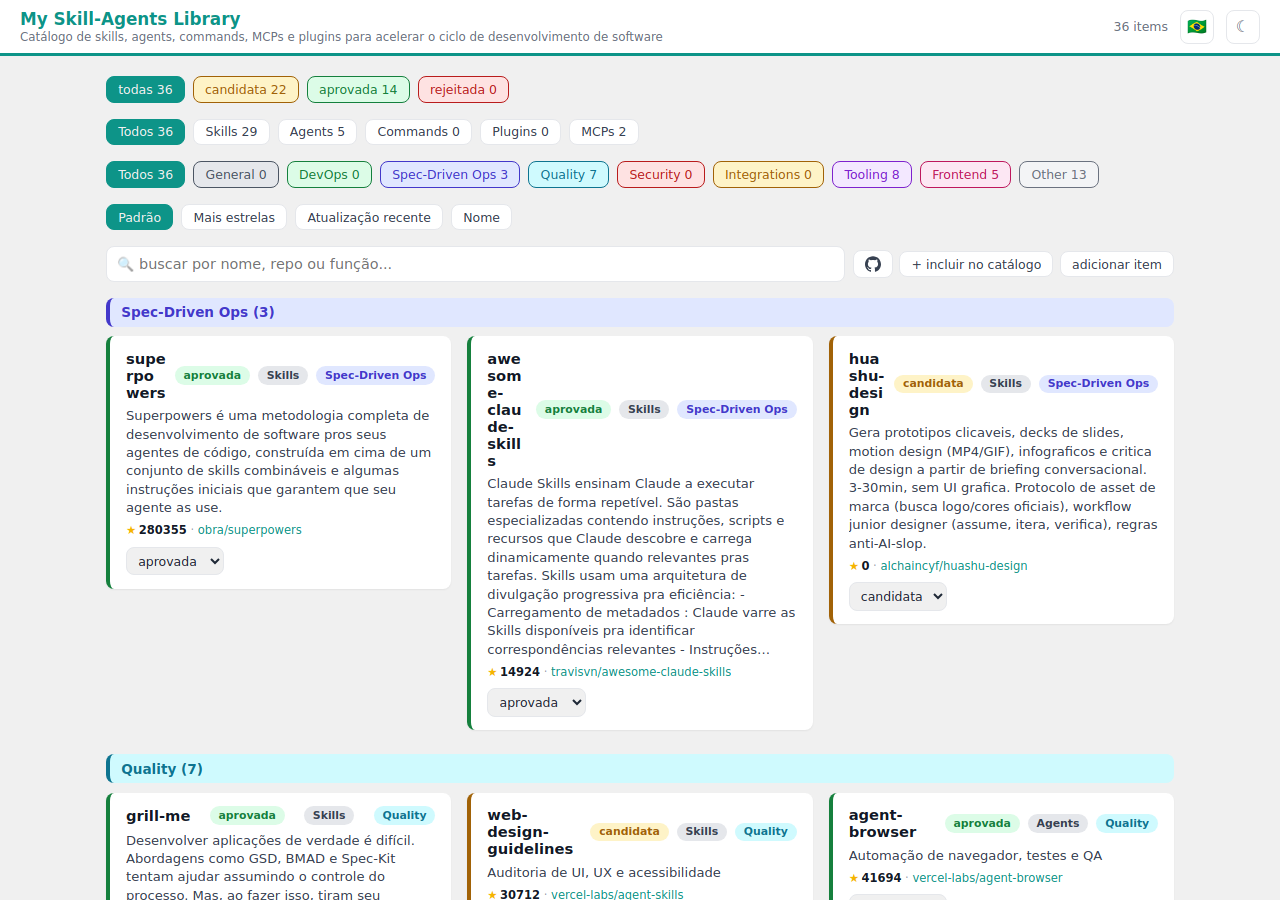
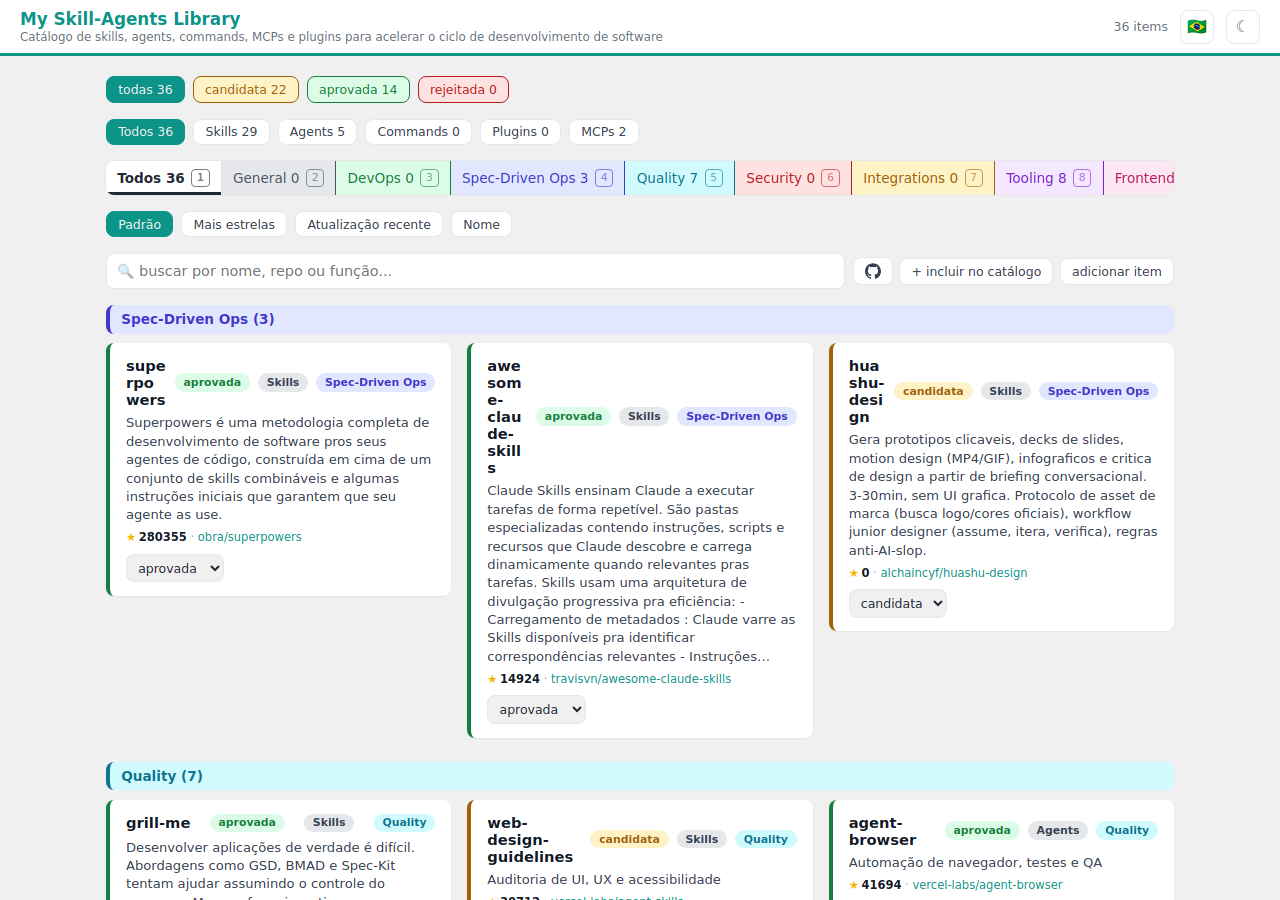
docs: update README and CODEBASE_MAP for purpose tab bar + add-item modal
- refresh screenshots (purpose tab bar, digit shortcuts, add-item
  button, search box below filters)
- README: new "purpose filter is a tab bar" section, updated screenshot
  caption/alt text
- CODEBASE_MAP: document renderPurposeFilter's tab-bar rewrite,
  PURPOSE_TAB_KEYS/purposeTabTarget, the digit-shortcut keydown handler,
  and the add-item form's move into a modal (renderAddModal/
  openAddModal/closeAddModal)

Claude-Session: https://claude.ai/code/session_015HJhdv2NVHp8ftTBC2Pkqs

diff --git a/docs/CODEBASE_MAP.md b/docs/CODEBASE_MAP.md
@@ -152,11 +152,13 @@ tests/
 **Dependents**: `regenerate.sh`, the CLI entry point, `test_generator.py`.
 
 **Frontend structure (inside `render_app_js()`)**:
-- State: `items`, `filterStatus`, `filterKind`, `filterPurpose`, `sortBy`, `openModalId`, plus search state `searchQuery`, `ghResults`, `ghLoading`, `ghError`, `ghAddedRepos`, plus i18n state `lang` — plain globals, re-rendered wholesale on every mutation via `render()`.
+- State: `items`, `filterStatus`, `filterKind`, `filterPurpose`, `sortBy`, `openModalId`, `addModalOpen`/`addModalPrefillName` (add-item modal), plus search state `searchQuery`, `ghResults`, `ghLoading`, `ghError`, `ghAddedRepos`, plus i18n state `lang` — plain globals, re-rendered wholesale on every mutation via `render()`.
 - **i18n** (pt default / en / es): `LANGS`, `LANG_FLAG` (toggle-button emoji per lang), and `STRINGS[lang]` (per-lang dict of UI-chrome strings — plain keys, function keys like `itemsCount(n)`/`ghResultsFound(n)`/`confirmDelete(name)`/`errGeneric(status)`, and nested `status`/`kind`/`purpose`/`sort` label maps). `currentLang()` reads `localStorage["lang"]` (default `"pt"`), `setLang()` writes it. `t(key)` and the `statusLabel()`/`kindLabel()`/`purposeLabel()`/`sortLabel()` helpers resolve from `STRINGS[lang]`, falling back to `STRINGS.pt` if the lang or key is missing — these fully replaced the old plain `STATUS_LABEL`/`KIND_LABEL`/`PURPOSE_LABEL`/`SORT_LABEL` consts, which no longer exist. `renderLangToggle()` sits next to `renderThemeToggle()` in the topbar and cycles `LANGS` (🇧🇷→🇺🇸→🇪🇸) on click. **Item data** (`name`/`function`/`dev_note`/`personal_note`) is never translated — `STRINGS` covers only UI chrome. Gotcha: inside `renderModal()`, the field-label `<label>` elements are named `statusFieldLabel`/`kindFieldLabel`/`purposeFieldLabel` (not `statusLabel`/etc.) specifically to avoid shadowing the global label-helper functions of the same name, which that function still calls.
 - `call(action, body)` POSTs to `/skill-library/api`; on failure throws an `Error` carrying `.code`/`.status` from the JSON error body.
 - `reload()` re-fetches the full list and re-renders client-side after every write — this is what hides the static page's regeneration latency from the user.
-- `renderSearchBox()` builds the local search input (filters `items` by name/repo/function substring, combined with the status/kind/purpose filters, purely client-side) plus a GitHub-mark button and a "+ incluir no catálogo" shortcut that scrolls to and prefills the add form.
+- `renderSearchBox()` builds the local search input (filters `items` by name/repo/function substring, combined with the status/kind/purpose filters, purely client-side) plus a GitHub-mark button, a "+ incluir no catálogo" button that opens the add-item modal prefilled with the search text, and a plain "adicionar item" button that opens the same modal empty. Rendered below the status/kind/purpose/sort filters, not above them.
+- `renderFilters()` (status) and `renderPurposeFilter()` both color each pill/tab to match that value's card badge — `renderPillRow(className, allLabel, options, labelFn, active, onPick, countFn, colorClassFn)` is the shared pill-list builder (`colorClassFn` is optional, used by status → `"badge-"+s"` and previously by purpose). `renderPurposeFilter()` no longer calls `renderPillRow`: it builds its own `.purpose-tabs`/`.purpose-tab` row (one full-width tab bar instead of a wrapping pill line, same `pill-purpose-*` color classes), each tab carrying a `<kbd class="tab-shortcut">` hint from `PURPOSE_TAB_KEYS` (`"1"` = Todos, `"2"..."9"` = each `PURPOSES` entry in order — `purposeTabTarget(key)` maps a key back to the purpose). A `document`-level `keydown` handler drives the same jump: any digit in `PURPOSE_TAB_KEYS`, outside an `INPUT`/`TEXTAREA`/`SELECT` and while no modal is open, sets `filterPurpose` and re-renders. `filterPurpose` still defaults to `null` ("Todos"), unchanged.
+- `renderAddModal()` / `openAddModal(prefillName)` / `closeAddModal()`: the add-item form (`EDITABLE` fields) now lives in a modal overlay (`addModalOpen` state), not a permanently-rendered card — same overlay/close pattern as `renderModal(item)`, closable via the "✕" button, a click on the overlay backdrop, or Escape.
 - `searchGithub()` does a direct, unauthenticated `fetch` to `api.github.com/search/repositories` from the browser — bypasses `api.py` entirely, so it's the one place besides `refresh_repo`/`enrich.py` that talks to GitHub, but from the client rather than the server (keeps the offline-first backend contract intact). Subject to GitHub's ~10 req/min unauthenticated rate limit.
 - `renderGithubResults()` / `renderGithubResultsHeader()` render the loading/error/empty/populated states of the GitHub search panel (name, description, ★ stars, link, a per-result "+ incluir" that POSTs `action: "add"` directly, and a "✕" that clears `ghResults`).
 - `renderSections()` groups filtered items by `purpose` in fixed order, one colored section per non-empty purpose.

diff --git a/README.md b/README.md
@@ -76,6 +76,15 @@ aprovada / rejeitada) are colored the same as the status badge on every
 card, so a pill and its matching cards read as one color at a glance —
 same treatment the purpose pills already had.
 
+### Purpose filter is a tab bar, with digit shortcuts
+
+The purpose filter (General, DevOps, Spec-Driven Ops, Quality, Security,
+Integrations, Tooling, Frontend, Other, plus "Todos") renders as one row of
+full-width tabs instead of a wrapping line of pills — same per-purpose
+colors, one line, always opening on "Todos". Each tab shows its digit
+shortcut (1 = Todos, 2 through 9 for each purpose in order); pressing that
+key anywhere outside a text field or an open modal jumps straight to it.
+
 ### Pulls real GitHub data
 
 Each item carries its repo's real star count and a link to it, fetched over
@@ -139,13 +148,14 @@ persist an explicit choice in `localStorage`.
 
 <picture>
   <source media="(prefers-color-scheme: dark)" srcset="docs/screenshot-dark.png">
-  <img alt="My Skill-Agents Library: status/kind/purpose/sort filter pills (status and purpose pills colored to match their cards), a search box below them with GitHub-search and add-item buttons, 36 items in purpose-grouped sections colored by category, and a card grid" src="docs/screenshot-light.png">
+  <img alt="My Skill-Agents Library: status and kind filter pills (status colored to match its cards), a purpose tab bar with per-purpose colors and digit shortcuts, sort pills, a search box below them with GitHub-search and add-item buttons, 36 items in purpose-grouped sections colored by category, and a card grid" src="docs/screenshot-light.png">
 </picture>
 
 The header carries the title, an item count, and the theme toggle. Below it:
-status pills (colored), kind pills, purpose pills (colored to match), sort
-pills, then the search box with its GitHub-search, quick-add and add-item
-buttons, then one colored section per purpose holding that purpose's cards.
+status pills (colored), kind pills, the purpose tab bar (colored, digit
+shortcuts, always starting on "Todos"), sort pills, then the search box
+with its GitHub-search, quick-add and add-item buttons, then one colored
+section per purpose holding that purpose's cards.
 
 ---
 
